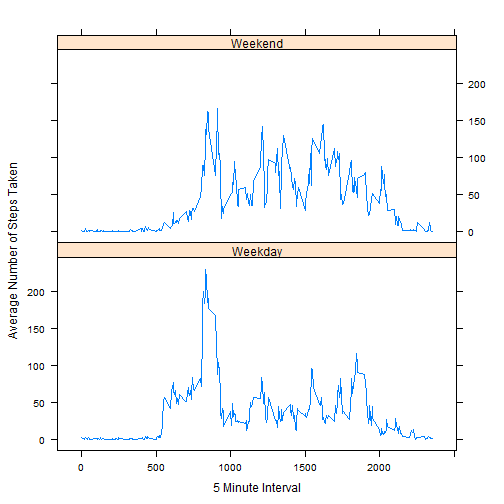
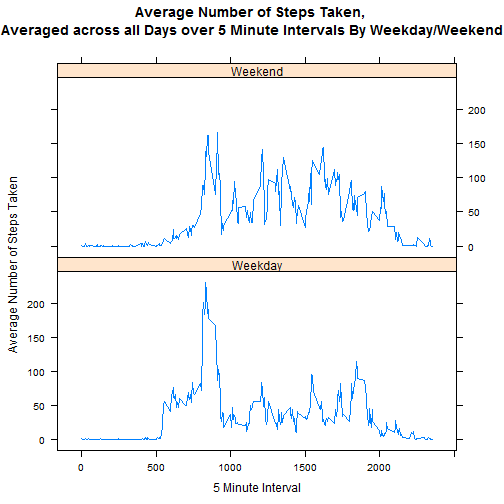
Updated Submission

diff --git a/PA1_template.html b/PA1_template.html
@@ -338,10 +338,11 @@ Note: This step assumes that the file has been unzipped in the current working d
   names(imputedDataAverage)[3] &lt;- &#39;steps&#39;
 
   xyplot(steps~interval | dayOfWeek, imputedDataAverage, type=&quot;l&quot;,
-       layout=c(1,2), xlab=&quot;5 Minute Interval&quot;, ylab = &quot;Average Number of Steps Taken&quot;)
+       layout=c(1,2), xlab=&quot;5 Minute Interval&quot;, ylab = &quot;Average Number of Steps Taken&quot;,
+       main=&quot;Average Number of Steps Taken, \nAveraged across all Days over 5 Minute Intervals By Weekday/Weekend&quot;)
 </code></pre>
 
[2 lines of base64/hex data omitted]
 
 <p>&nbsp;&nbsp;&nbsp;&nbsp;&nbsp;&nbsp;&nbsp;&nbsp;&nbsp;&nbsp;&nbsp;&nbsp;&nbsp;There appears to be a peak in the average number of steps during the weekday, compared to that of the number of steps taken during the weekends, where the data is flatter.</p>
 

diff --git a/PA1_template.md b/PA1_template.md
@@ -153,7 +153,8 @@
   names(imputedDataAverage)[3] <- 'steps'
 
   xyplot(steps~interval | dayOfWeek, imputedDataAverage, type="l",
-       layout=c(1,2), xlab="5 Minute Interval", ylab = "Average Number of Steps Taken")
+       layout=c(1,2), xlab="5 Minute Interval", ylab = "Average Number of Steps Taken",
+       main="Average Number of Steps Taken, \nAveraged across all Days over 5 Minute Intervals By Weekday/Weekend")
 ```
 
 ![plot of chunk panelPlot](figure/panelPlot.png) 
